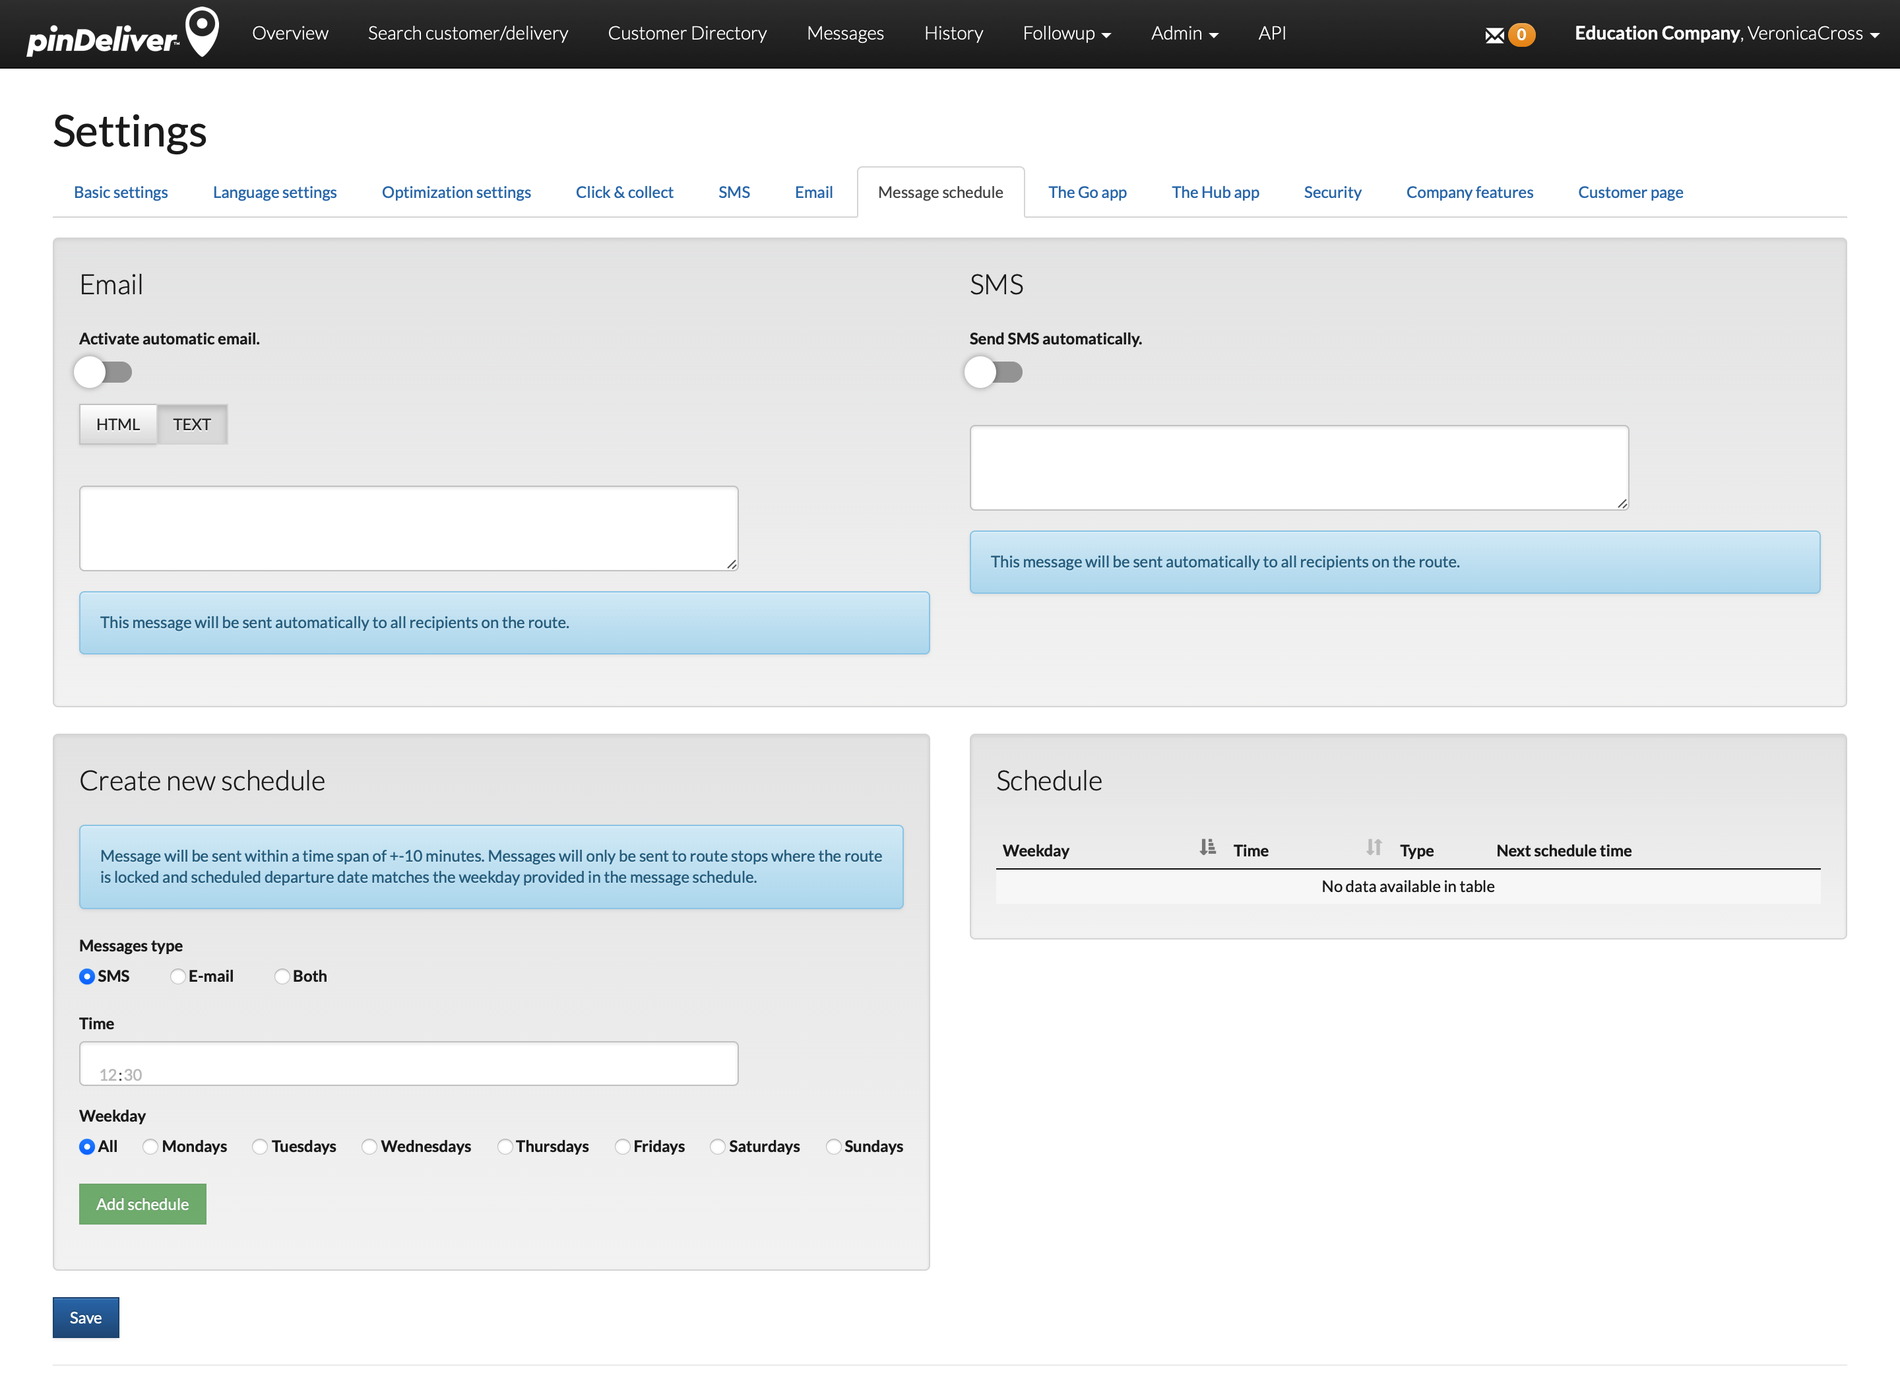
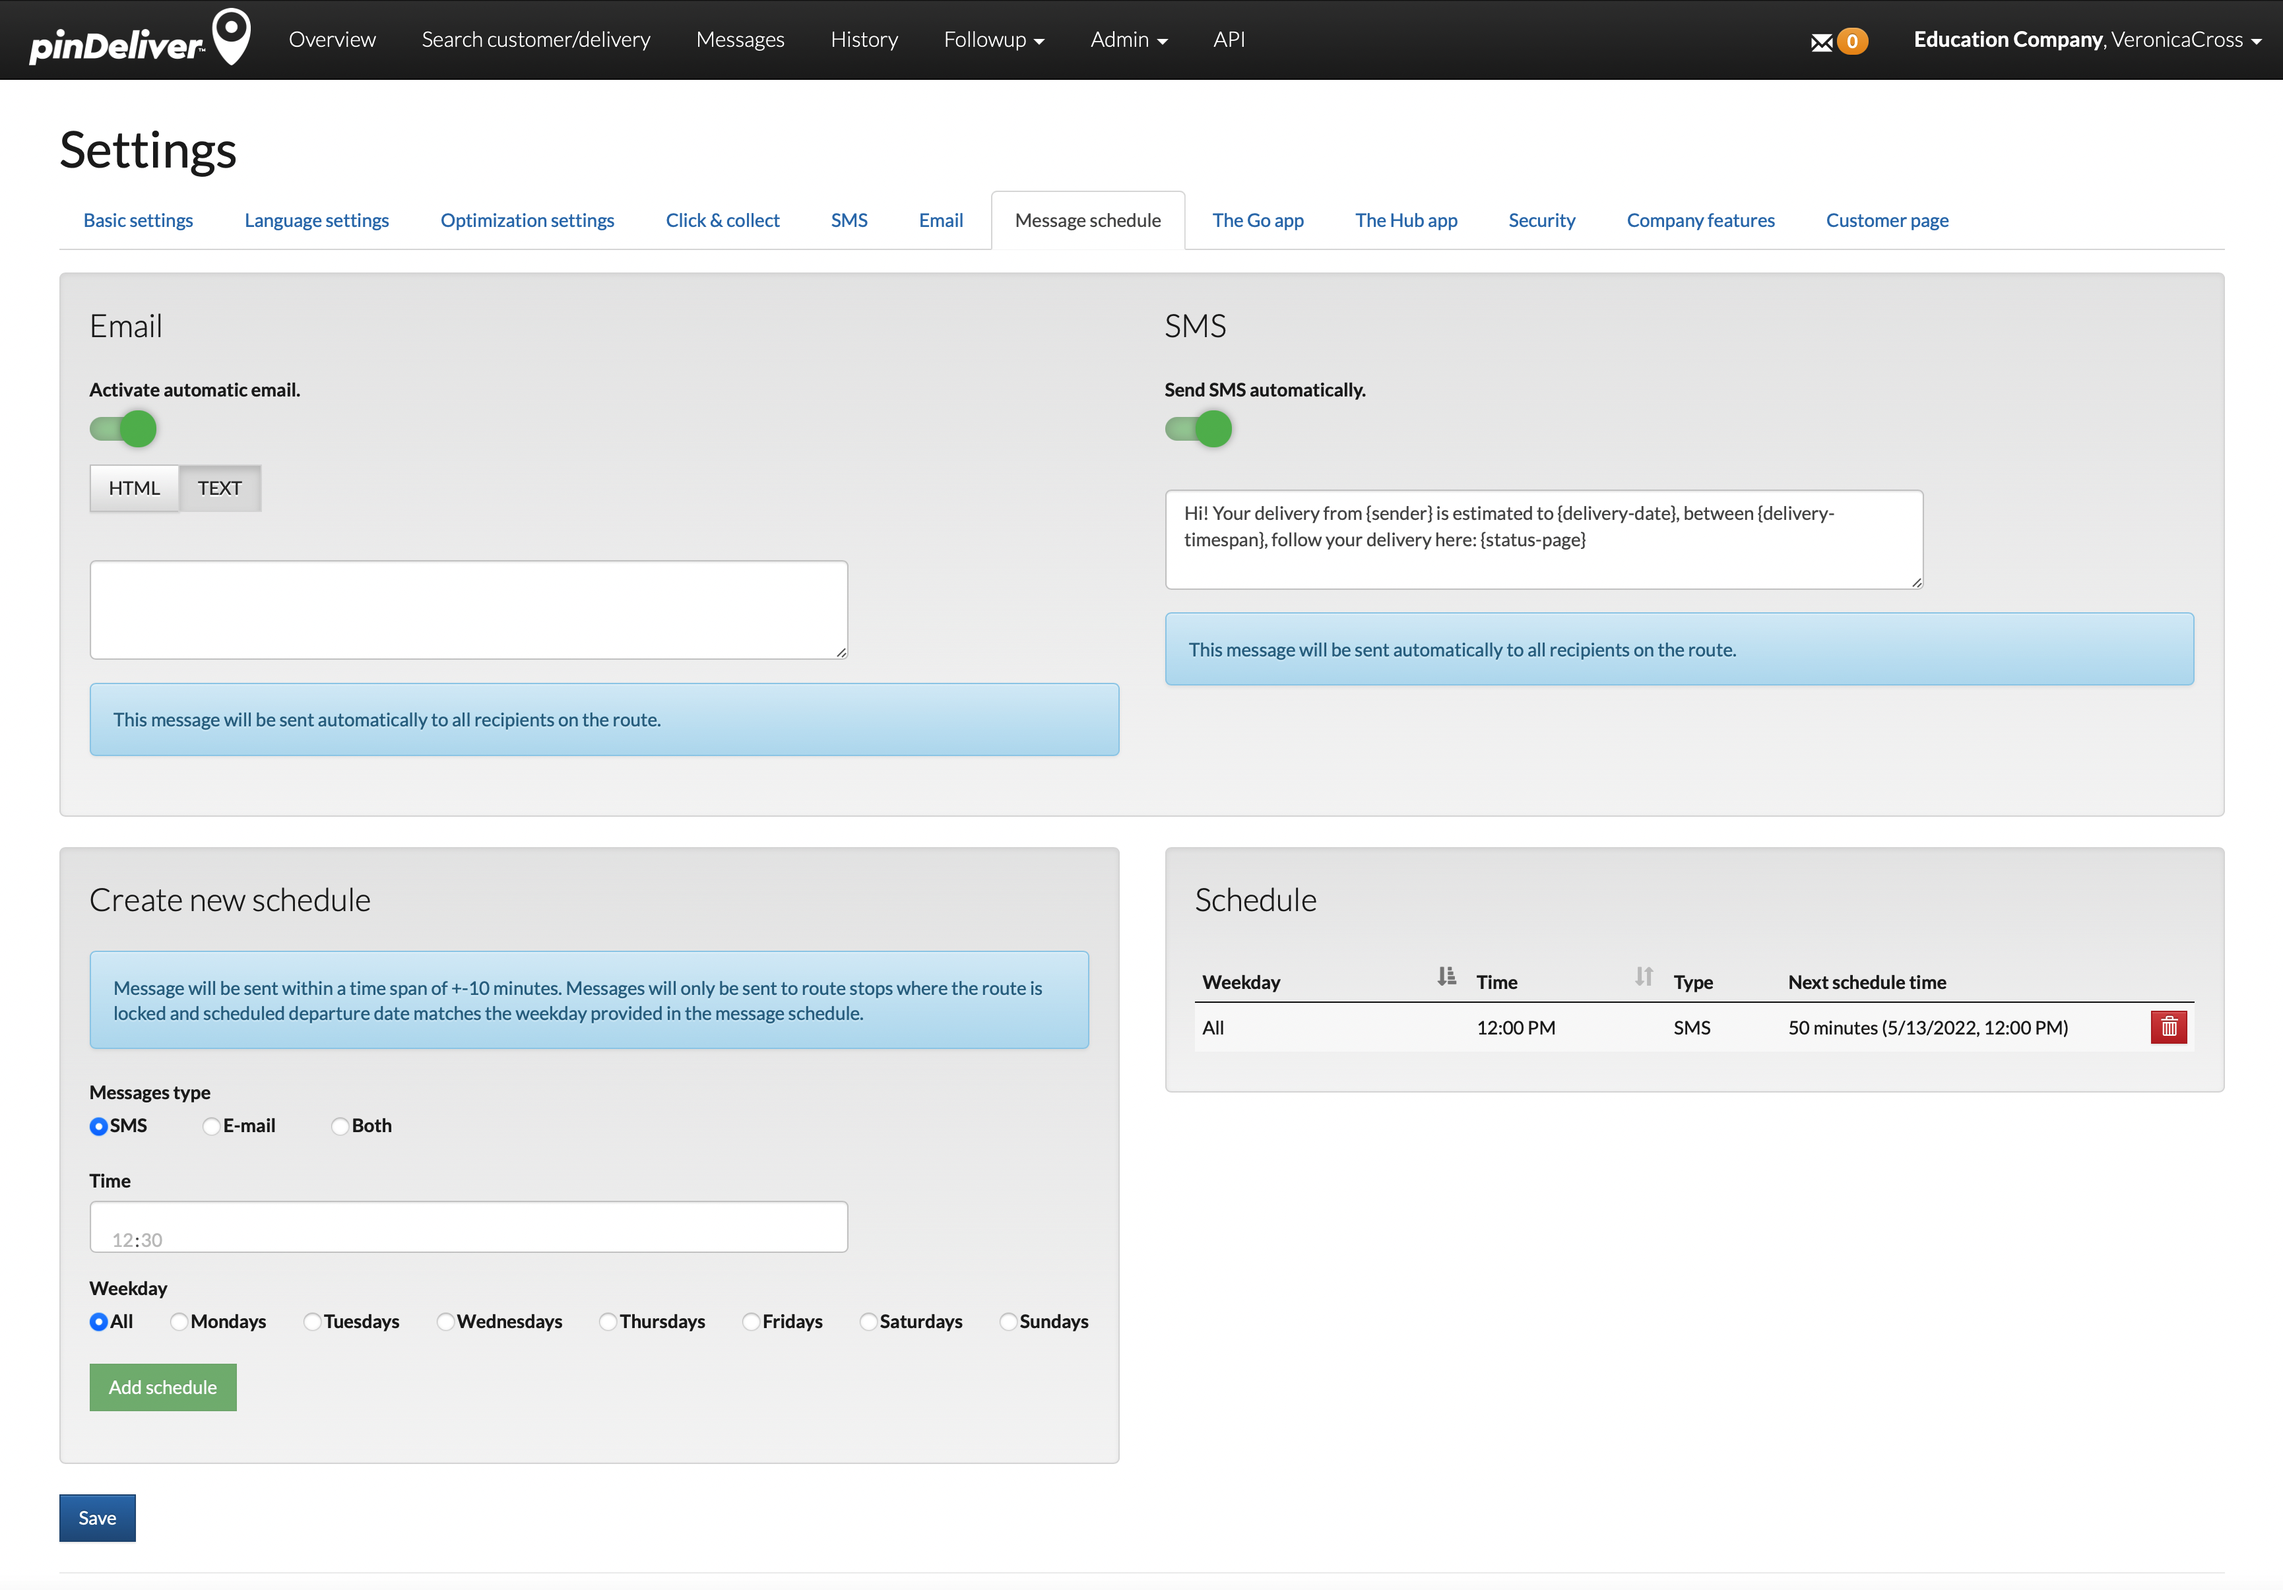
220513-1118

diff --git a/documentation/settings_email.md b/documentation/settings_email.md
@@ -1,1 +1,20 @@
-# Add your email settings here!
+# Email
+
+The main communication form in pinDeliver is through SMS since it is a very fast communication form. But it is also possible to have email as communication method. This makes it possible to have more complex messages and also use HTML code to design them.
+
+It is possible to have general email settings for the whole account but it is also possible to have specific email settings for different senders. In that case you do the email settings under the specific sender. See [Senders](senders.md). If email settings are done for a specific sender that will override the setting described in this page. Remember that the explanations of the fields below is also valid for corresponding field from [Senders](senders.md).
+
+As you see below several fields have the same purpose, that is to write message templates. These messages will be sent based on different triggers. All templates can have **aliases** (place holders) that replace an alias with a text from the customer order, for example customer name, estimated time of delivery. All **aliases** are described in the blue square to the right. For each message it is possible to select if the message is HTML coded or just plain text.
+
+
+![Email](/images/settings_email.png)
+
+|Segment|Field|Explanation|
+|-----|----------|----------|
+|**General settings**|Sender name {email-sendername}|Email from pinDeliver is sent with the sender name pinDeliver. If you want to use another sender name you may enter it here. If a sender name has been set in a delivery then that name will be used instead of any name you enter here.|
+||Reply address {email-replyaddress}|Email from pinDeliver is sent from the email address noreply<span>@</span>pindeliver.com. If you want customers to be able to answer the email, enter a reply address here.|
+||Select language for messages|Here you select for what language you want to write message templates.|
+|**Delivery**|Activate manual email button.|Activate button in the driving list that enables sending emails to all customers in the specific route.|
+|**Collect**|Activate manual email button.|When the button is pressed this message will be sent to all customers in the collect order. For instance: Hi {name}. Your delivery is now available for collect.|
+|**Customer created email**|Send email when a customer is created|This message will be sent when a customer is created.|
+|**Customer email reminder**|Send email reminder to a customer when the driver is within X minutes from the destination|Email reminder. Gets sent X minutes from destination. X will be replaced by the reminder time set in *Reminder time, when the driver is X minutes from customer stop* on [SMS settings](settings_sms.md)|

diff --git a/documentation/settings_sms.md b/documentation/settings_sms.md
@@ -1,8 +1,8 @@
 # SMS
 
-The main communication form in pinDeliver is through SMS since it is a very fast communication form. It is possible to have general SMS settings for account but it is also possible to have specific SMS settings for different senders. In that case you do the SMS settings under the specific sender. See [Senders](senders.md). If SMS settings is done for a specific sender that will override the setting described in this page. Remember that the explanations of the fields below is also valid for corresponding field from [Senders](senders.md).
+The main communication form in pinDeliver is through SMS since it is a very fast and reliable communication form. It is possible to have general SMS settings for the whole account but it is also possible to have specific SMS settings for different senders. In that case you do the SMS settings under the specific sender. See [Senders](senders.md). If SMS settings are done for a specific sender that will override the setting described in this page. Remember that the explanations of the fields below is also valid for corresponding field from [Senders](senders.md).
 
-As you see below several fields have the same purpose, that is to write message templates. These messages will be sent based on different triggers. All templates can have **aliases** (place holders) that replace an alias with a text from the customer order, for example customer name, estimated time of delivery. All **aliases** are described in the bug blue square to the right.
+As you see below several fields have the same purpose, that is to write message templates. These messages will be sent based on different triggers. All templates can have **aliases** (place holders) that replace an alias with a text from the customer order, for example customer name, estimated time of delivery. All **aliases** are described in the blue square to the right.
 
 It is important to think through which triggers you want to use. Some triggers often come very close in the work process and then that could be seen as spamming the customer.
 

diff --git a/documentation/settings_message_schedule.md b/documentation/settings_message_schedule.md
@@ -1,1 +1,19 @@
-# Add your message schedule settings here!
+# Message schedule
+
+The message scheduler makes it possible to send messages to the customers att the same time (one or several) every time. Instead of using triggers based on the routing (locking etc) the messages can be planned to be sent at the same time. Off course it is possible to combine this functionality with the triggers based on the planning procedure.
+
+For email messages it is possible to select if the message is HTML coded or just plain text.
+
+Message will be sent within a time span of +-10 minutes and will only be sent to route stops where the route is locked and scheduled departure date matches the weekday provided in the message schedule.
+
+Active schedules can be seen in the segment **Schedule**.
+
+![Message schedule](/images/settings_message_schedule.png)
+
+|Segment|Field|Explanation|
+|-----|----------|----------|
+|**Email**|Activate automatic email|This message will be sent automatically to all recipients on the route based on the schedules.|
+|**SMS**|Send SMS automatically|This message will be sent automatically to all recipients on the route based on the schedules.|
+|**Create new schedules**|Messages type|For each schedule you can decide if you want to send only the email, SMS or both messages.|
+||Time|Choose the time of the day when the message(s) should be sent.|
+||Weekday|Choose iof the message schedule should be used on a particular day (1) or for all days. If you want to schedule messages on weekdays but not on weekdays you need to create a schedule for each weekday.|
